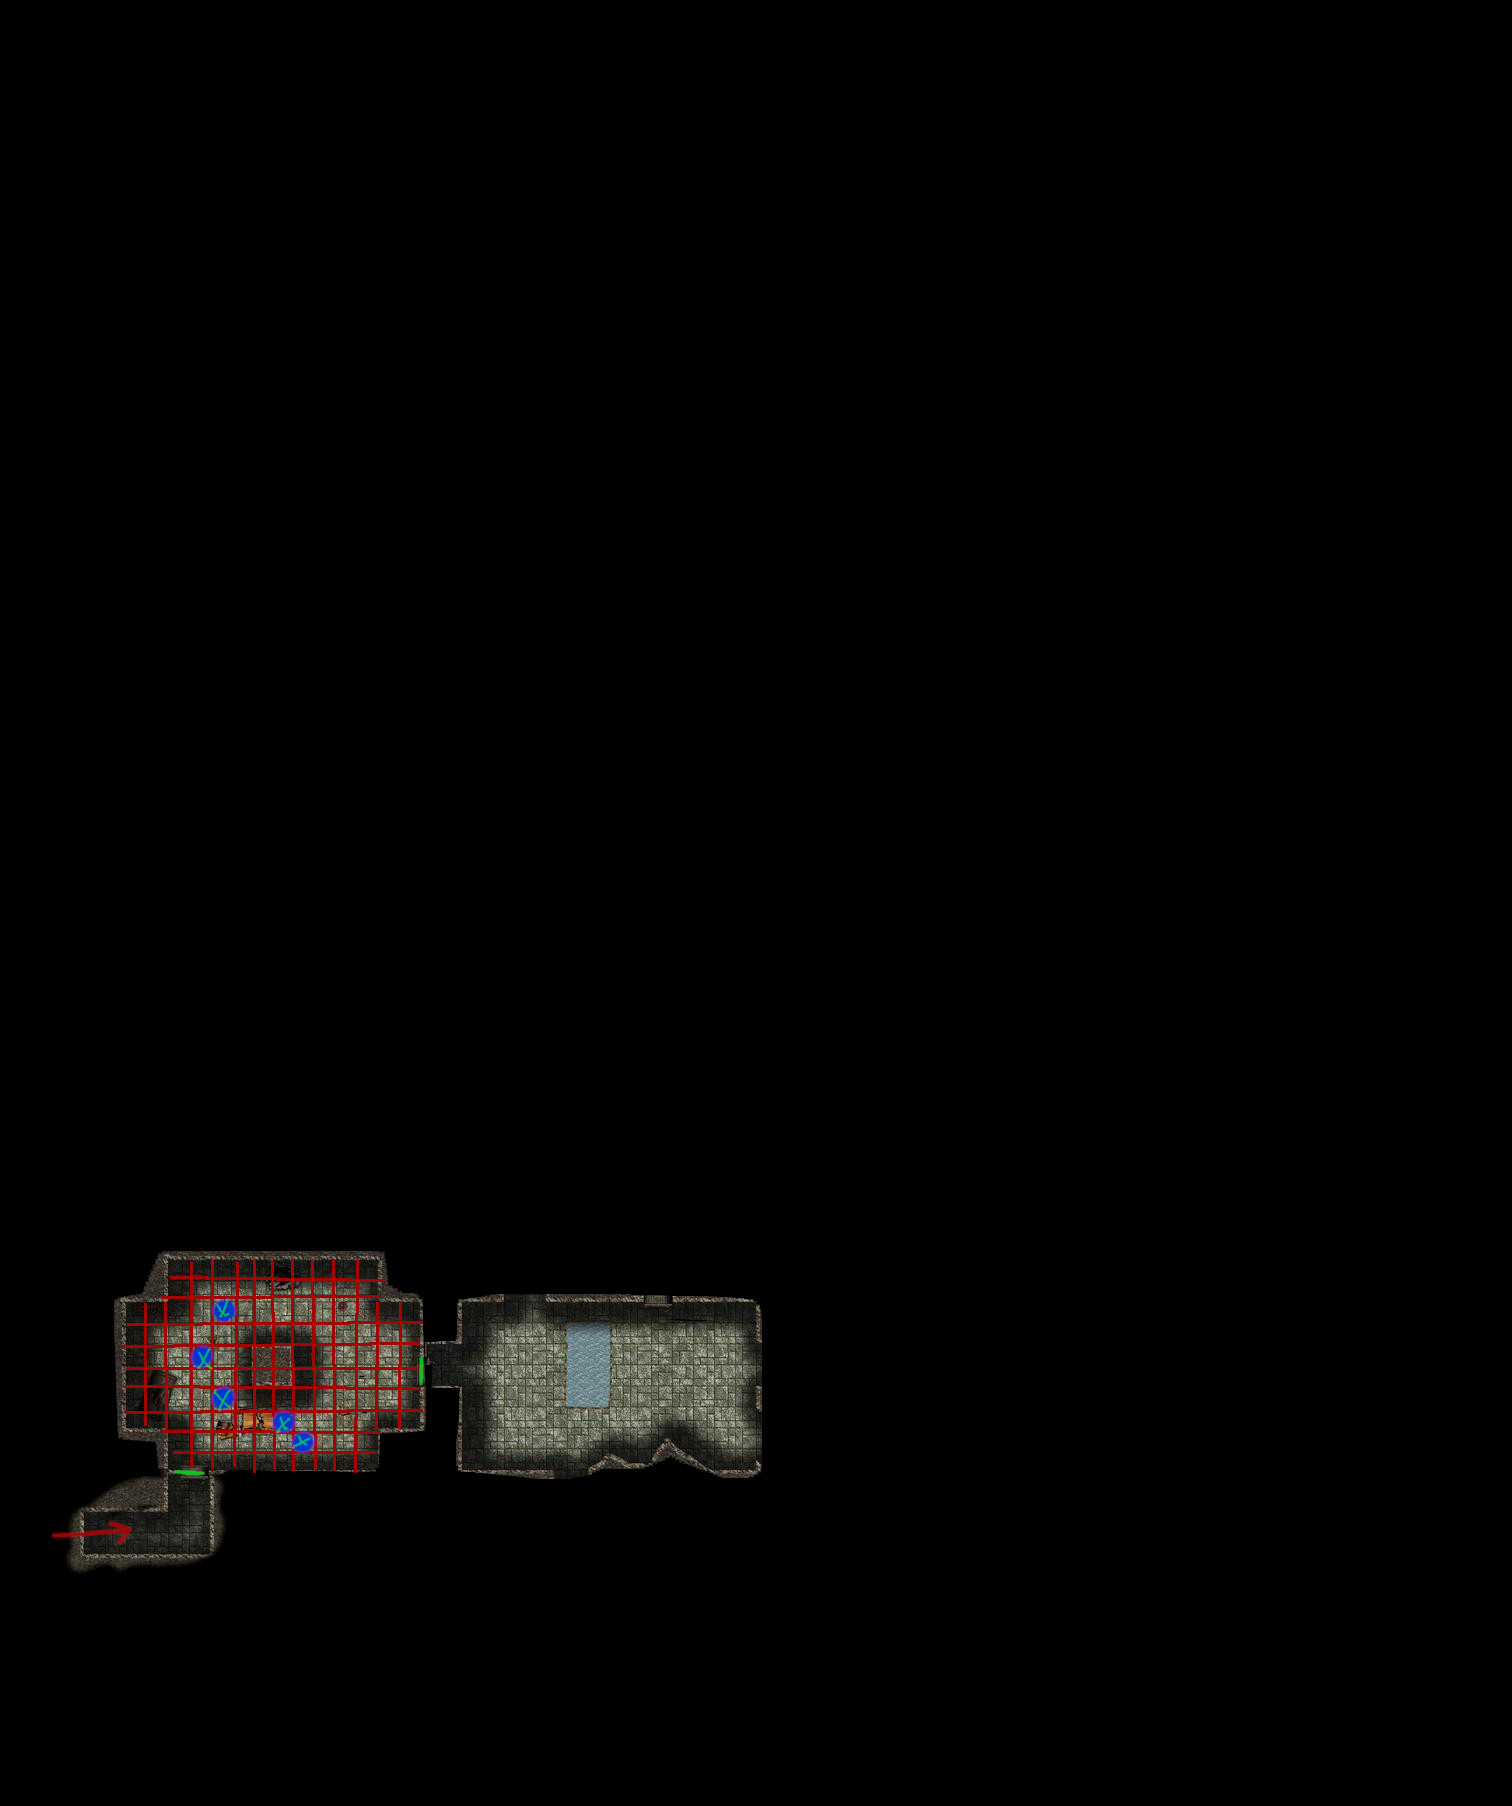
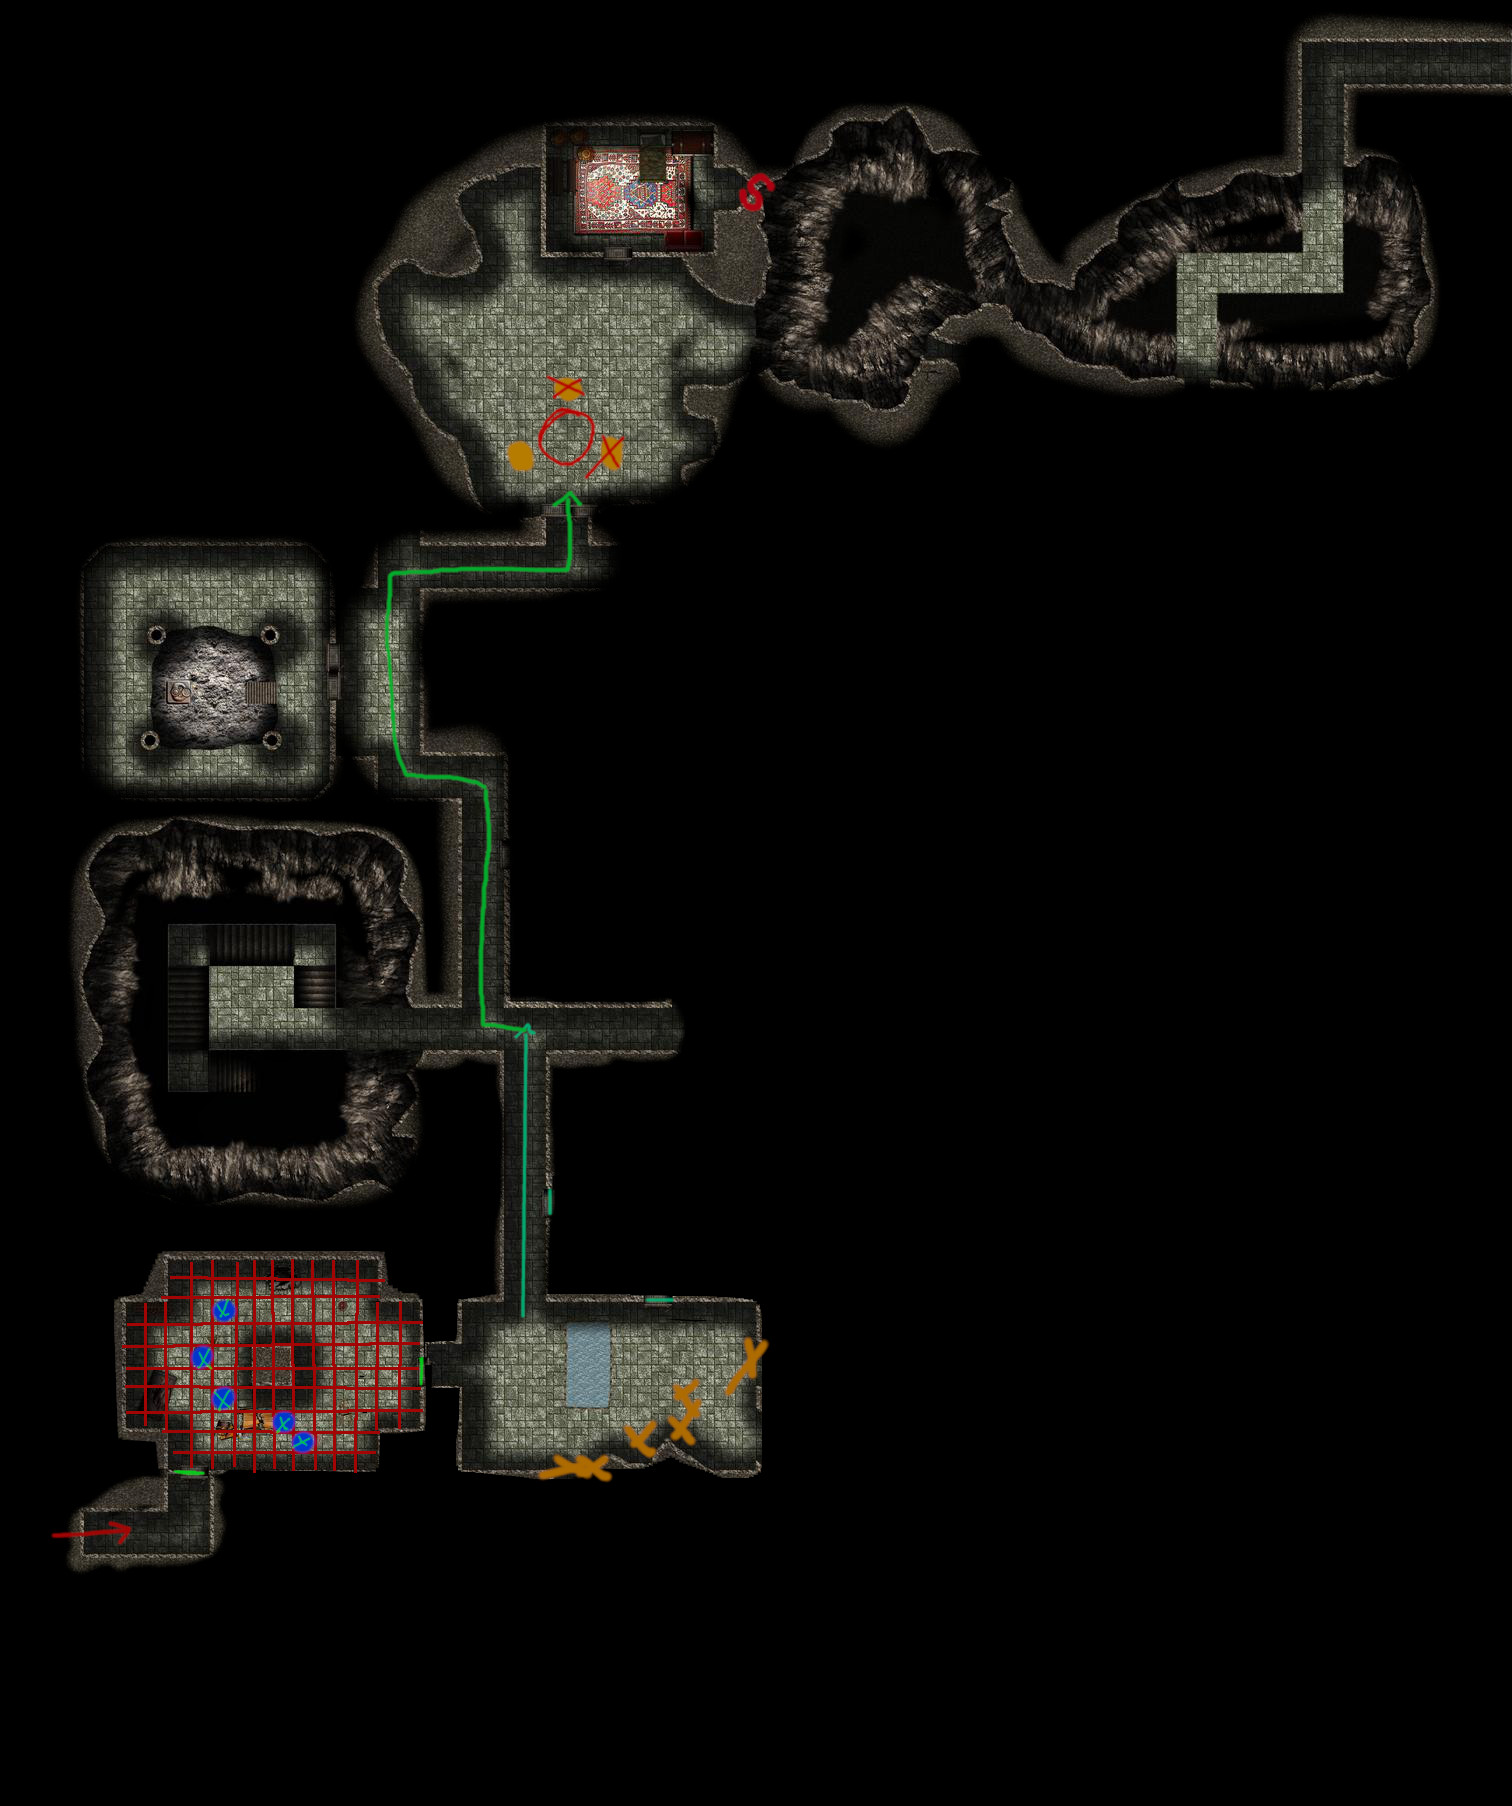
Session notes

Changed region(s): [[0.0311, 0.0, 1.0, 0.7442], [0.4041, 0.7442, 0.5284, 0.8062], [0.3419, 0.8062, 0.4041, 0.8372]]

diff --git a/dnd.html b/dnd.html
@@ -53,6 +53,7 @@
     <li><a href="#wed-19-june-2019">Wed 19 June 2019</a></li>
     <li><a href="#wed-26-june-2019">Wed 26 June 2019</a></li>
     <li><a href="#wed-17-july-2019">Wed 17 July 2019</a></li>
+    <li><a href="#wed-24-july-2019">Wed 24 July 2019</a></li>
     </ul></li>
     </ul></li>
     </ul>
@@ -232,6 +233,18 @@
 <details>
 <p><summary> Ninth session: Through the wormhole </summary></p>
 <h4 id="th-of-kythorn-1453-5">30th of Kythorn 1453</h4>
+<p>The party runs away from many big monsters. A giant, a cult mob and a chimeara… Bastion is left as bait to distract chimeara. The group makes their way out of the fire dungeon and tackles a group of Ogres in the Earth Cult’s quarter. The dwarf, staying true to form was the instigator of said encounter.</p>
+<p>They decide to barricade themselves in and rest for the night.</p>
+</details>
+<h3 id="wed-24-july-2019">Wed 24 July 2019</h3>
+<details>
+<p><summary> Tenth session: It not ogre yet </summary></p>
+<h4 id="st-of-flamerule-1453">1st of Flamerule 1453</h4>
+<p>After hearing spooky noises the party decides to leave the ogre den to explore the stone dungeon…</p>
+<p>As soon as they exit the ogre den, the group encounters two bullettes fighting in the adjacent chamber. The bullettes cause the chamber to start collapsing, so the party decides to make a run for it.</p>
+<p>Peren starts to recall the area and leads the group to an exit. Before they reach the exit, the party encounters an earth elemental and it’s friends. Combat ensues. After dealing with the elementals Peren leads the way to the Stone Monastery via a tunnel network and a very tall staircase.</p>
+<p>Our adventurers find themselves in the basement dungeon under the monastery, which is infested by shambling troops of zombies. They make use of the maze like nature of the dungeon to avoid the zombies and find their way to the monastery proper.</p>
+<p>Exiting the monastery the party sees daylight for the first time in a long while. They decide to leave and go looking for the nearest town.</p>
 </details>
   </div>
 <footer>

diff --git a/dnd.md b/dnd.md
@@ -317,5 +317,34 @@ portal. They make their way through the portal...
 <summary> Ninth session: Through the wormhole </summary> 
 
 #### 30th of Kythorn 1453 
+The party runs away from many big monsters. A giant, a cult mob and a chimeara... Bastion is left as bait to distract
+chimeara. The group makes their way out of the fire dungeon and tackles a group of Ogres in the Earth Cult's quarter. 
+The dwarf, staying true to form was the instigator of said encounter.
+
+They decide to barricade themselves in and rest for the night.
+
+</details>
+
+### Wed 24 July 2019
+
+<details>
+<summary> Tenth session: It not ogre yet </summary> 
+
+#### 1st of Flamerule 1453 
+After hearing spooky noises the party decides to leave the ogre den to explore the stone dungeon...
+
+As soon as they exit the ogre den, the group encounters two bullettes fighting in the adjacent chamber. The bullettes 
+cause the chamber to start collapsing, so the party decides to make a run for it.
+
+Peren starts to recall the area and leads the group to an exit. Before they reach the exit, the party encounters an
+earth elemental and it's friends. Combat ensues. After dealing with the elementals Peren leads the way to the Stone
+Monastery via a tunnel network and a very tall staircase.
+
+Our adventurers find themselves in the basement dungeon under the monastery, which is infested by shambling troops of 
+zombies. They make use of the maze like nature of the dungeon to avoid the zombies and find their way to the monastery 
+proper. 
+
+Exiting the monastery the party sees daylight for the first time in a long while. They decide to leave and go looking 
+for the nearest town. 
 
 </details>

diff --git a/combat.md b/combat.md
@@ -413,3 +413,14 @@ AC 11 59, 36, 31, 12 HP
 13 Yashira 
 7 Wolves 
 0 Ogres
+
+AC 17  126, 113, 93, 84, 81, 70, 57, 40, 35, 32, 24, 8, 0
+AC 17  126, 121, 117, 112, 88, 77, 71, 68, 32, 17, 0
+AC 17  126, 120, 101, 97, 78, 73, 66, 30
+
+22 Moonpie
+21 Thorin
+20 Peren 
+15 Wolves
+7 Yashira
+6 Stone elementals
